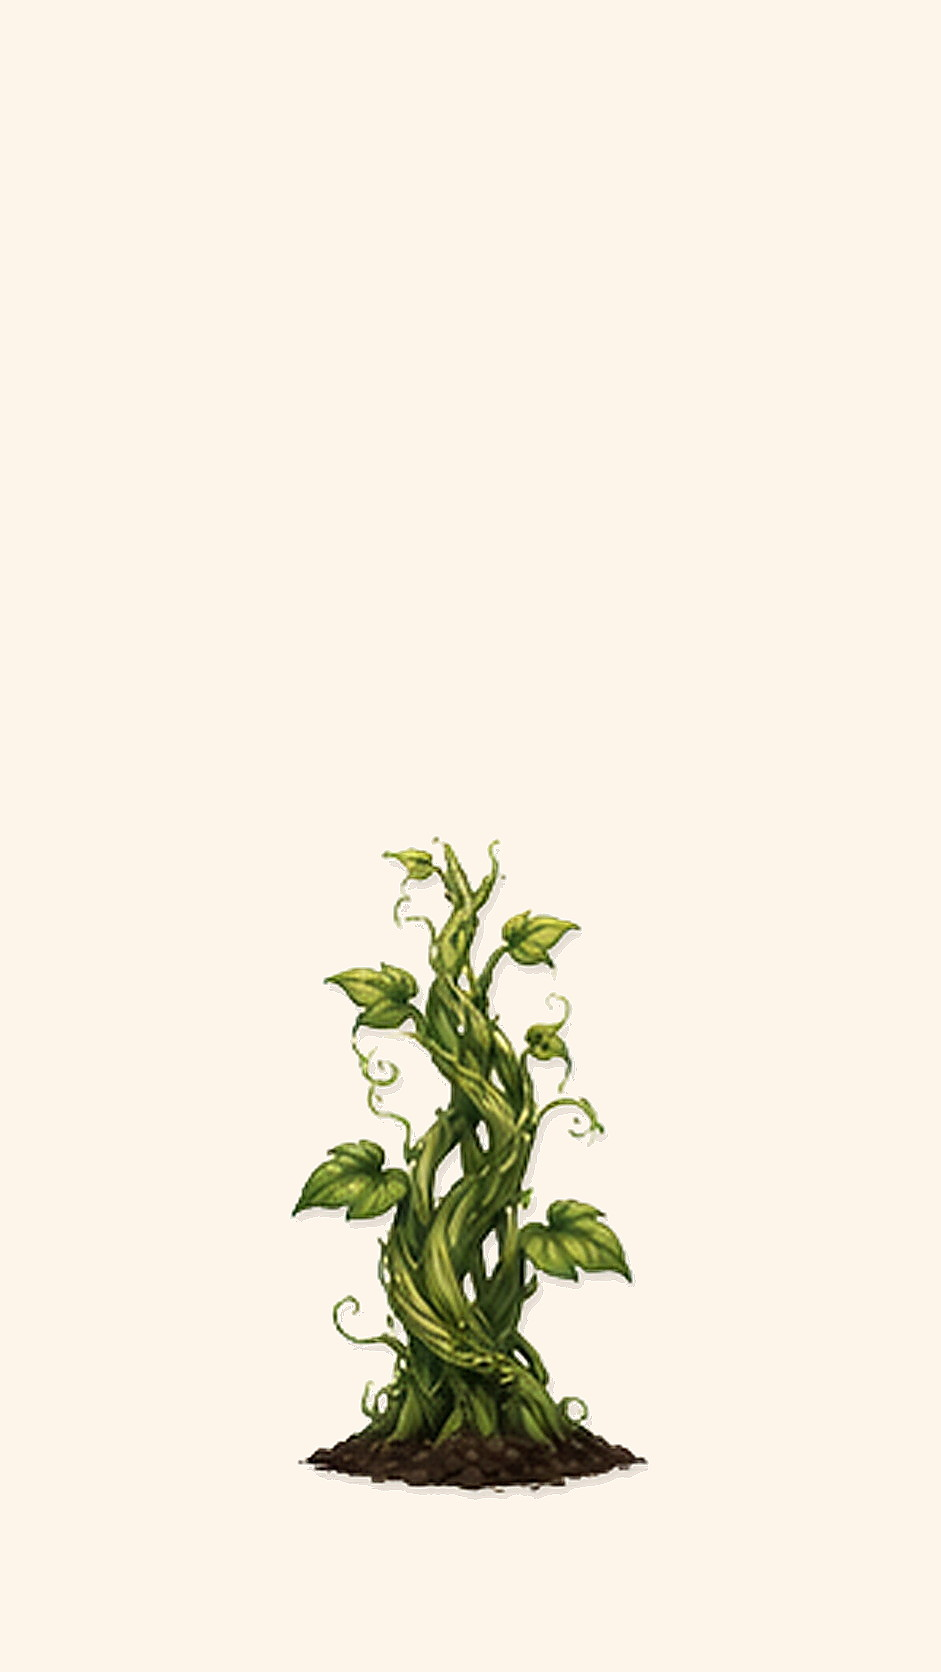
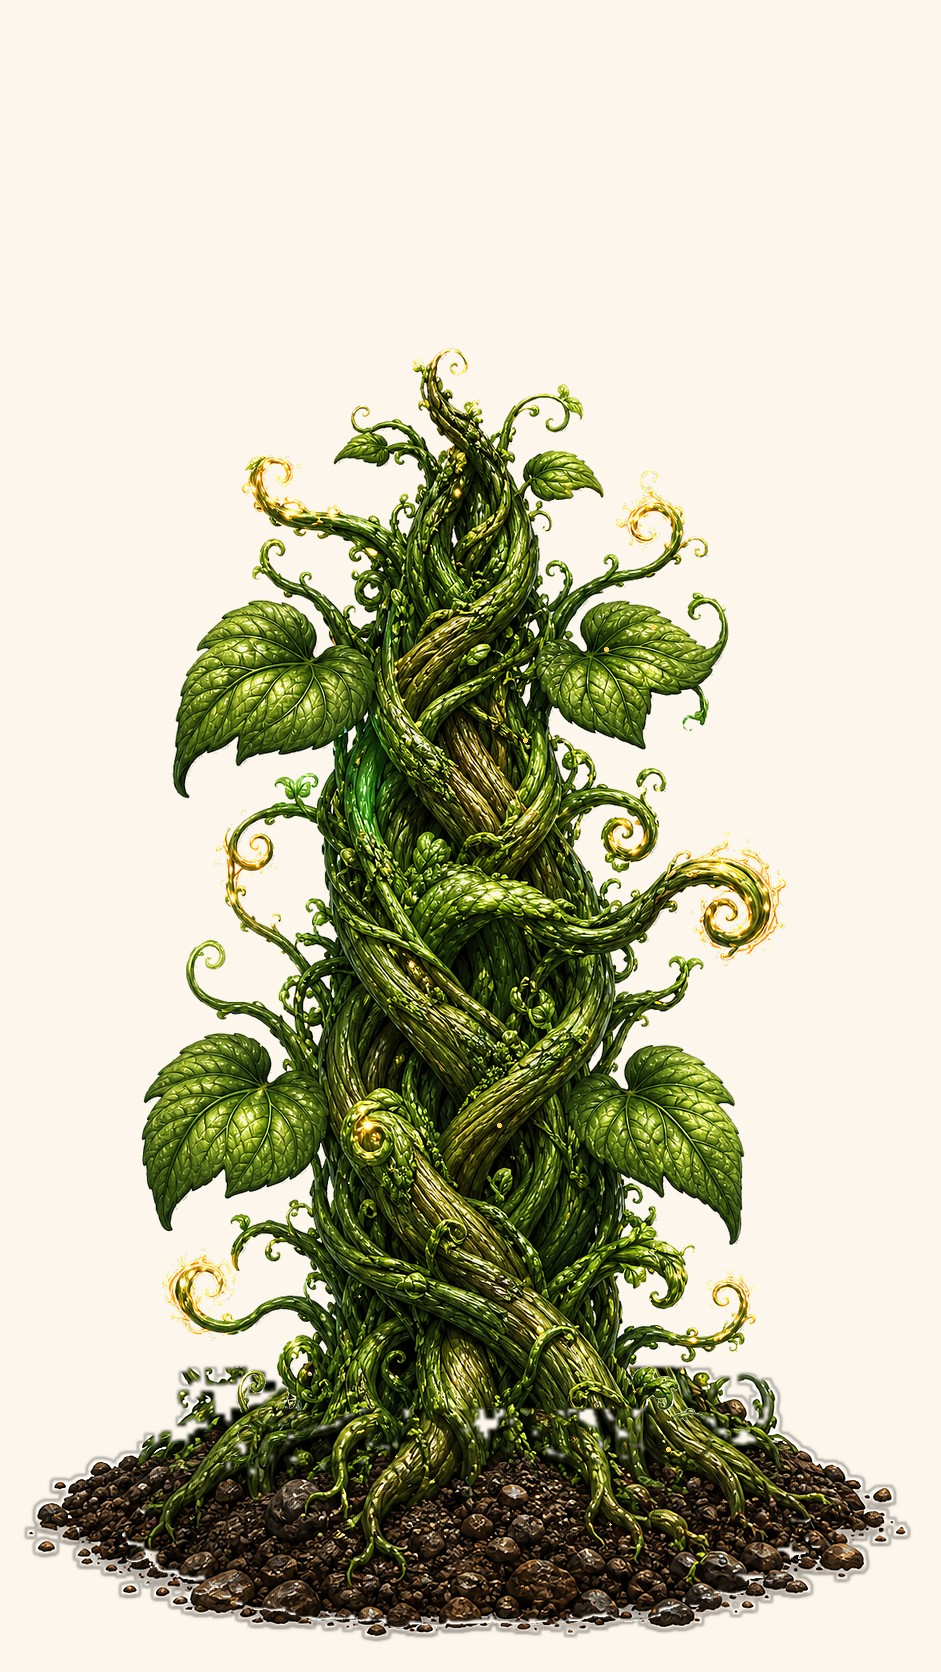
生成高清单锚点魔树动画素材

diff --git a/picture/魔树动画素材/素材说明.md b/picture/魔树动画素材/素材说明.md
@@ -1,12 +1,13 @@
 # 魔树动画素材说明
 
-本目录是魔树生长动画的连贯 JPEG q90 版素材，用于替换上一批 28 次独立生成的 PNG。
+本目录是魔树生长动画的高清单锚点 JPEG q90 版素材，用于替换上一批低清连贯帧和 28 次独立生成的 PNG。
 
 ## 文件
 
 - `magic_tree_f01.jpg` 到 `magic_tree_f28.jpg`：28 帧连贯生长序列
 - `preview_contact_sheet.jpg`：28 帧总览预览
 - `magic_tree_sequence_preview.gif`：快速动效预览，仅用于查看节奏
+- `approved_highres_reference.png`：用户认可的高清终帧风格参考
 - `validation_report.json`：素材自检结果
 - `manifest.json`：素材元信息
 
@@ -14,16 +15,18 @@
 
 - 单帧尺寸：941x1672
 - 格式：JPEG q90
-- 总体积：约 2.45MB
+- 总体积：约 14.1MB
 - 背景：接近 `#FDF6EC`
 - 命名：`magic_tree_f01.jpg` 到 `magic_tree_f28.jpg`
 
 ## 本版修正
 
-上一批高清 PNG 是逐帧独立生成，单帧更清晰，但不是同一株植物连续生长，导致换株、土堆漂移、背景漂移和体积过大。本版改回同源连贯序列，并统一输出为 JPEG q90：
+上一批高清 PNG 是逐帧独立生成，单帧更清晰，但不是同一株植物连续生长，导致换株、土堆漂移、背景漂移和体积过大。本版使用用户认可的高清终帧作为唯一锚点，生成同株等比生长序列，并统一输出为 JPEG q90：
 
 - 废弃 50MB PNG 独立帧
-- 保留同一株魔树的连续生长关系
+- 保留同一株魔树的视觉身份
+- 土堆固定在同一位置
+- 植株使用等比缩放生长，不做纵向拉伸
 - 不再使用切片平铺、镜像、拉伸树干等路线
 - 统一生成预览图、GIF 和验收报告
 
@@ -37,4 +40,6 @@
 
 ## 注意
 
-这版优先解决“同株连贯、体积合理、可稳定接入”。它不是最终 AI 超分辨率版本；如果之后继续追求更高画质，必须使用“一张大图画完全部帧再拆”或“img2img 链式低重绘”方式生成，不能再逐帧独立生成。
+这版优先解决“高清质感、同株视觉身份、无拼接、土堆稳定”。它不是逐帧 AI 真实生长序列；因为植株面积逐帧变大，`validation_report.json` 里的平均帧差会超过旧阈值。该阈值只适合评估真实相邻帧序列，不适合评估这版高清单锚点等比生长方案。
+
+如果之后继续追求更真实的“新叶逐片长出、藤条逐步变粗”，必须使用“一张大图画完全部帧再拆”或“img2img 链式低重绘”方式生成，不能再逐帧独立生成。

diff --git a/docs/CODE_MAP.md b/docs/CODE_MAP.md
@@ -1,7 +1,7 @@
 # 代码地图（CODE MAP）
 
 > ⚠ 本文件由 `scripts/update_code_map.sh` 自动生成，请勿手工编辑。
-> 生成时间：2026-07-30 14:40:58　对应提交：60447a5 之后的工作区状态
+> 生成时间：2026-07-30 15:12:11　对应提交：d12ec51 之后的工作区状态
 
 ## 一、索引状态
 
